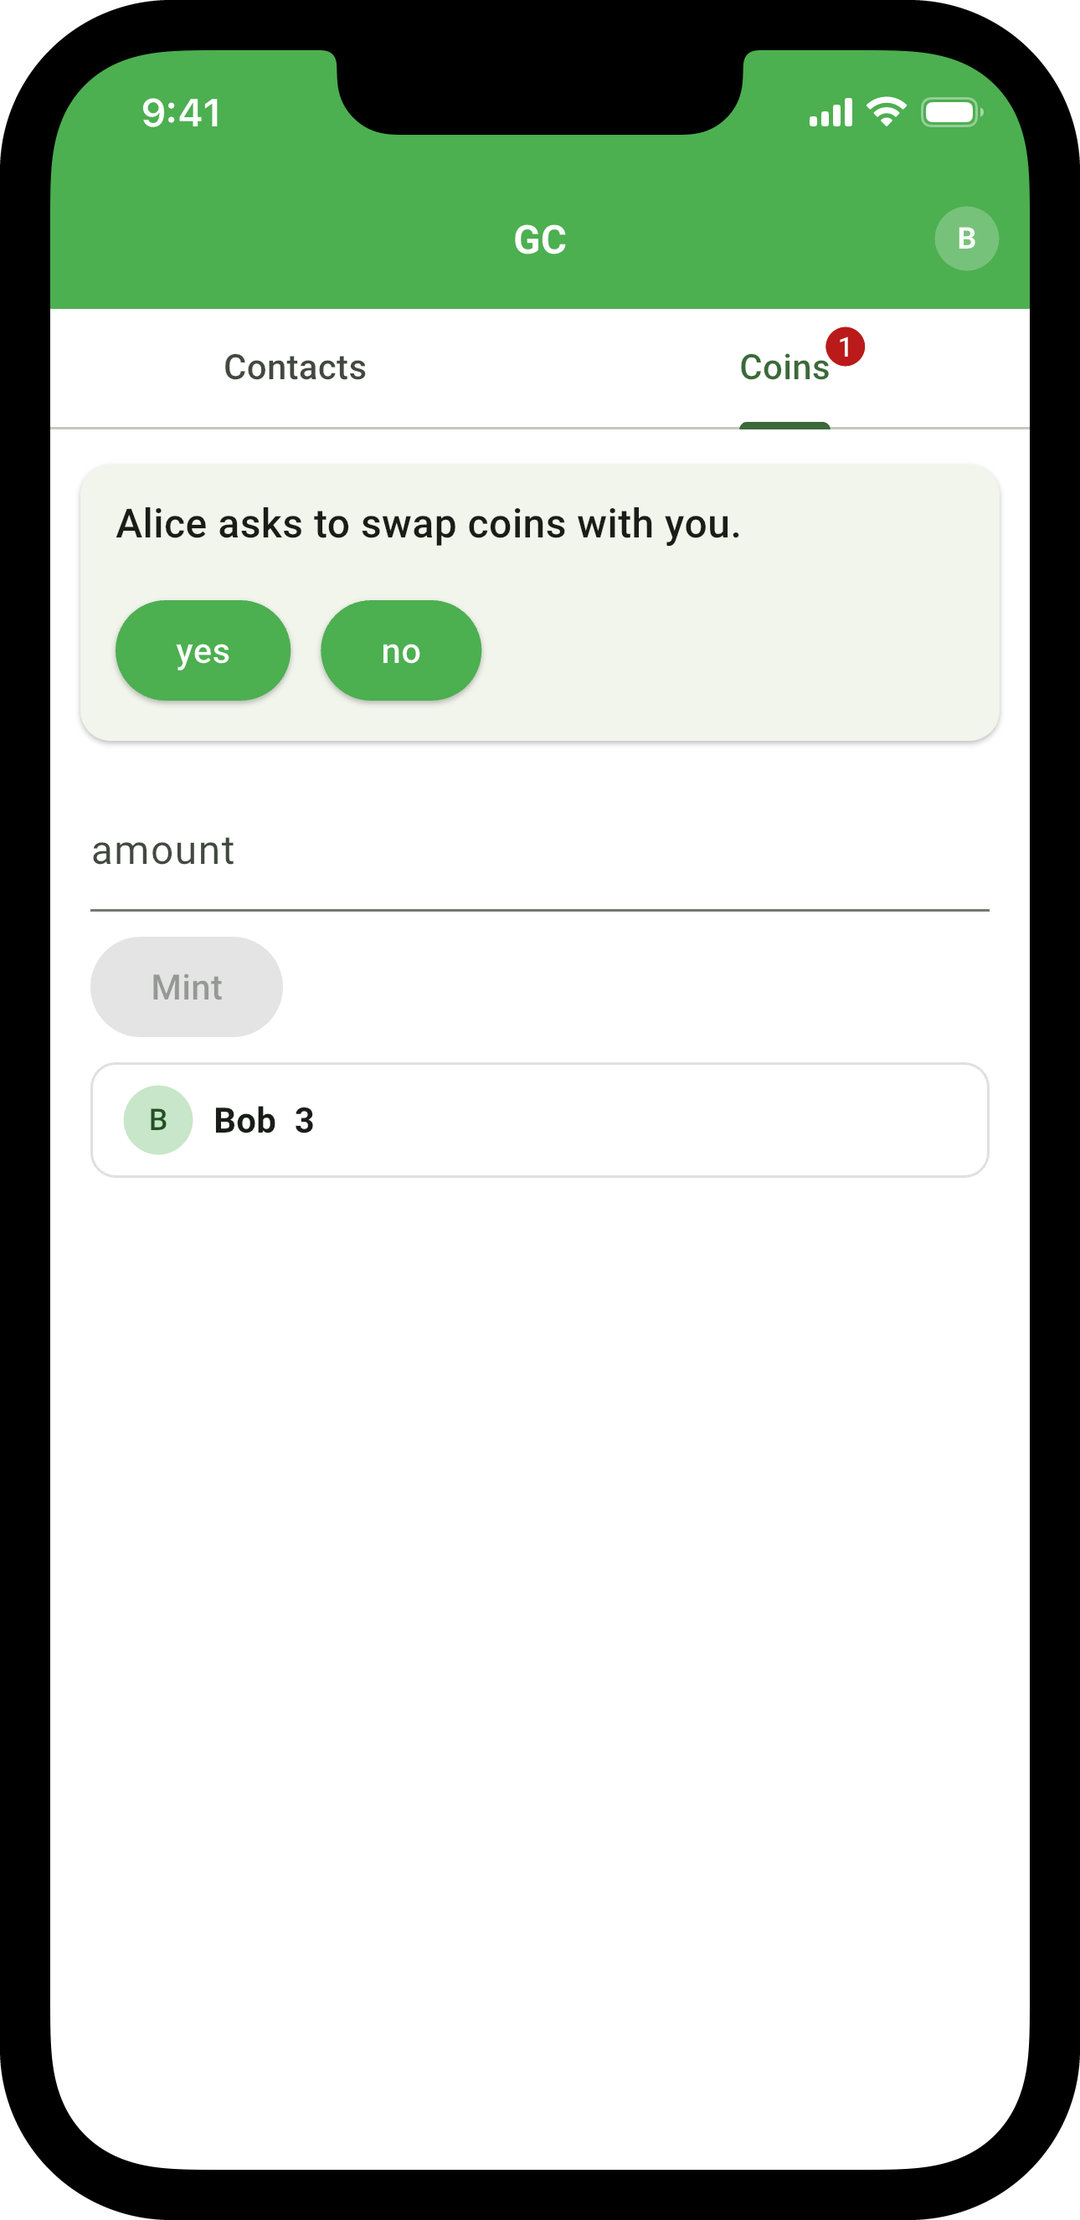
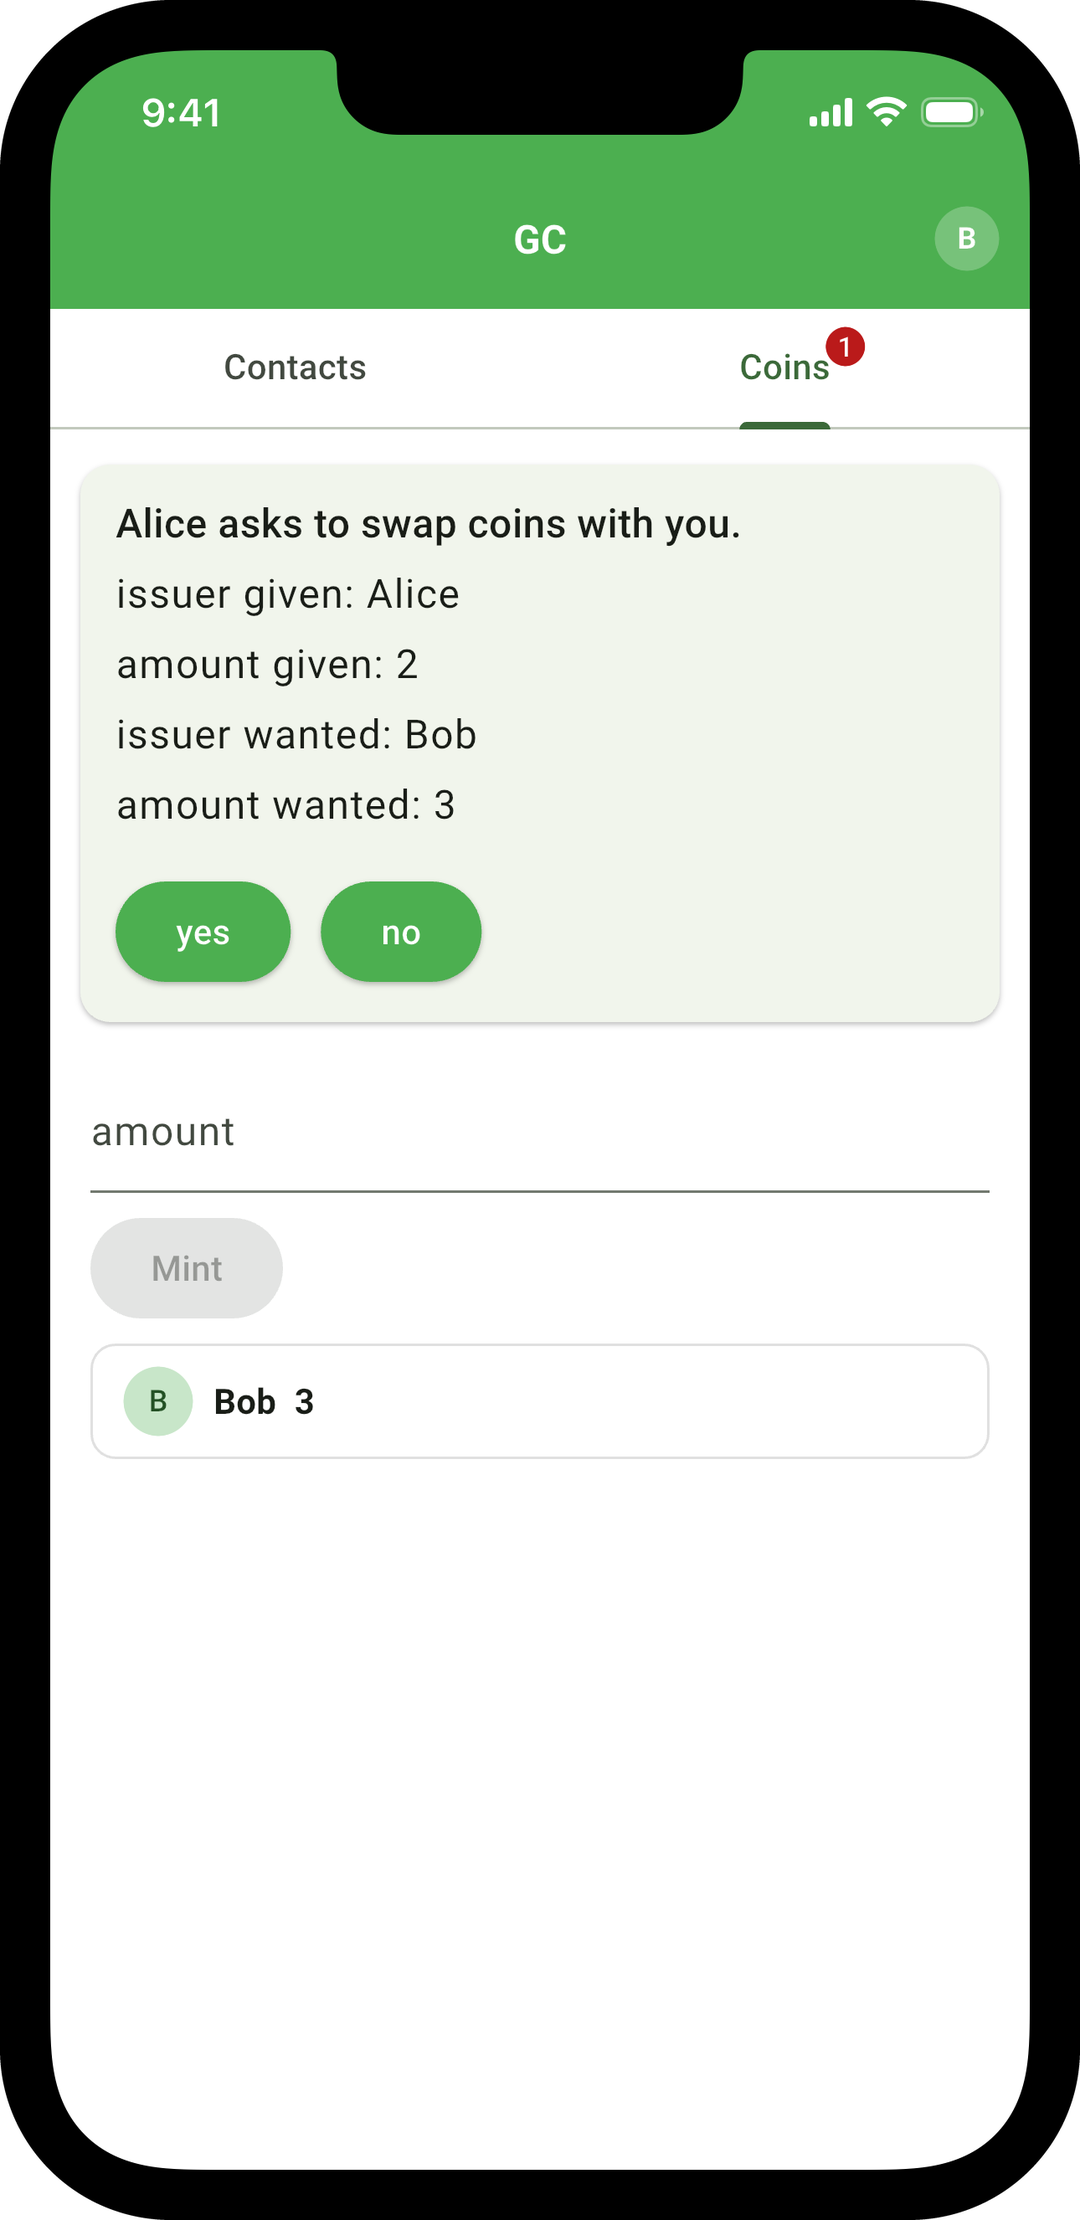
GC's four screens re-taken and the six phones of GC's village market taken on the iOS Simulator, an iPhone 16e, at 71f54ce4, each Coins tab the holdings of GC's Table table:village-holdings; README to match

Changed region(s): [[0.0611, 0.2486, 0.4583, 0.6527], [0.275, 0.6216, 0.3056, 0.6527], [0.275, 0.4973, 0.3056, 0.5284]]

diff --git a/programs/apps/gc/screens/README.md b/programs/apps/gc/screens/README.md
@@ -13,9 +13,9 @@ The script builds the bundled assets (`tool/sync_glp_assets.sh`), boots the simu
 | File | What it shows |
 |---|---|
 | `gc-a-alice-mint.png` | Alice mints (GC:1): her Coins tab, the tab of GC, once she has typed 2 into Mint's field, GC's "<amount>", and tapped Mint, GC's "[Mint]": a row for her coins, Alice, and their count, 2. |
-| `gc-b-bob-asked.png` | Alice asks Bob to swap (GC:2): Bob's Coins tab with GC's question "Alice asks to swap coins with you." and the answers yes and no at its top, and his row, Bob, 3. |
+| `gc-b-bob-asked.png` | Alice asks Bob to swap (GC:2): Bob's Coins tab with GC's question "Alice asks to swap coins with you.", under it the fields of the swap, each named by GC's words, issuer given: Alice, amount given: 2, issuer wanted: Bob, amount wanted: 3, and the answers yes and no, at its top; below, Mint and his row, Bob, 3. |
 | `gc-c-bob-holdings.png` | Bob's Coins tab once he has answered yes and the swap has committed: a row for the Alice-coins he holds, Alice, 2, with the buttons of the acts that name a person beside the proposer, Meet, Introduce, Swap, Pay and Redeem. |
-| `gc-d-alice-pay.png` | Alice pays two Bob-coins to Bob (GC:3): her Coins tab once she has tapped Pay on Bob's row and typed 2 into its field: one Bob-coin left, the row Bob. |
+| `gc-d-alice-pay.png` | Alice pays two Bob-coins to Bob (GC:3): her Coins tab once she has tapped Pay on Bob's row, typed 2 into its field and sent it: one Bob-coin left, the row Bob, 1, with the buttons of the acts that name a person. |
 
 ## The village market
 
